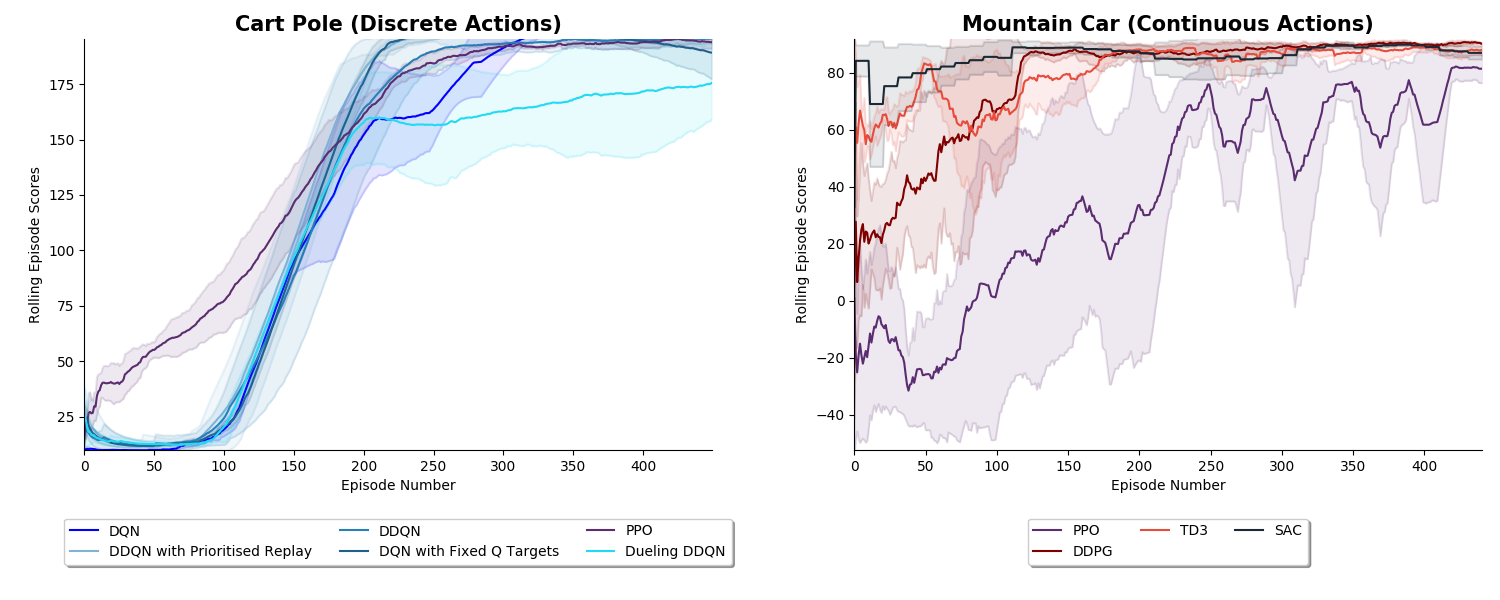
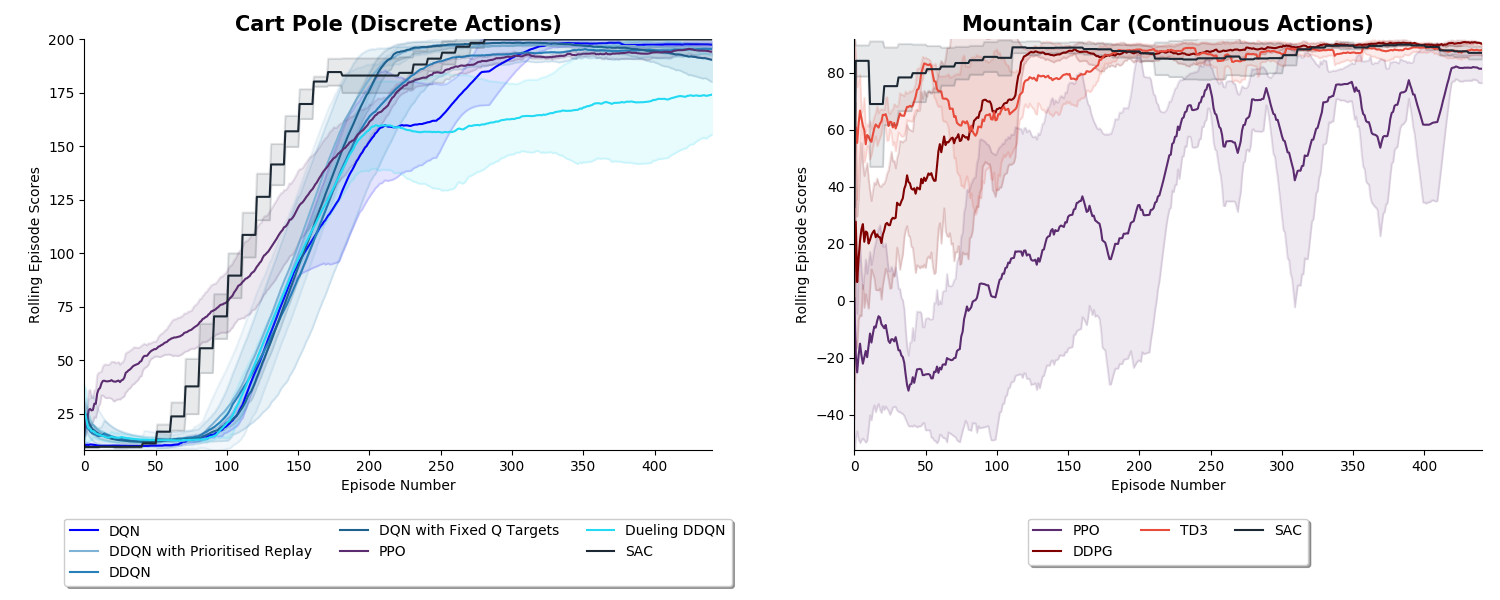
added SAC cart pole reuslts

diff --git a/agents/actor_critic_agents/SAC_Discrete.py b/agents/actor_critic_agents/SAC_Discrete.py
@@ -6,9 +6,9 @@ from Replay_Buffer import Replay_Buffer
 from SAC import SAC
 from Utility_Functions import create_actor_distribution
 
-
 class SAC_Discrete(SAC):
-    """The Soft Actor Critic for discrete actions"""
+    """The Soft Actor Critic for discrete actions. It inherits from SAC for continuous actions and only changes a few
+    methods."""
     agent_name = "SAC"
     def __init__(self, config):
         Base_Agent.__init__(self, config)
@@ -42,12 +42,7 @@ class SAC_Discrete(SAC):
             self.alpha_optim = Adam([self.log_alpha], lr=self.hyperparameters["Actor"]["learning_rate"])
         else:
             self.alpha = self.hyperparameters["entropy_term_weight"]
-
-        self.add_extra_noise = self.hyperparameters["add_extra_noise"]
-        # if self.add_extra_noise:
-        #     self.noise = OU_Noise(self.action_size, self.config.seed, self.hyperparameters["mu"],
-        #                           self.hyperparameters["theta"], self.hyperparameters["sigma"])
-
+        assert not self.hyperparameters["add_extra_noise"], "There is no add extra noise option for the discrete version of SAC at moment"
         self.do_evaluation_iterations = self.hyperparameters["do_evaluation_iterations"]
 
     def produce_action_and_action_info(self, state):

diff --git a/README.md b/README.md
@@ -19,7 +19,7 @@ This repository contains PyTorch implementations of deep reinforcement learning 
 1. *REINFORCE* <sub><sup> ([Williams et al. 1992](http://www-anw.cs.umass.edu/~barto/courses/cs687/williams92simple.pdf)) </sup></sub>
 1. *Deep Deterministic Policy Gradients (DDPG)* <sub><sup> ([Lillicrap et al. 2016](https://arxiv.org/pdf/1509.02971.pdf) ) </sup></sub>
 1. *Twin Delayed Deep Deterministic Policy Gradients (TD3)* <sub><sup> ([Fujimoto et al. 2018](https://arxiv.org/abs/1802.09477)) </sup></sub>
-1. *Soft Actor-Critic (SAC)* <sub><sup> ([Haarnoja et al. 2018](https://arxiv.org/pdf/1812.05905.pdf)) </sup></sub> 
+1. *Soft Actor-Critic (SAC & SAC-Discrete)* <sub><sup> ([Haarnoja et al. 2018](https://arxiv.org/pdf/1812.05905.pdf)) </sup></sub> 
 1. *Asynchronous Advantage Actor Critic (A3C)* <sub><sup> ([Mnih et al. 2016](https://arxiv.org/pdf/1602.01783.pdf)) </sup></sub>
 1. *Syncrhonous Advantage Actor Critic (A2C)*
 1. *Proximal Policy Optimisation (PPO)* <sub><sup> ([Schulman et al. 2017](https://openai-public.s3-us-west-2.amazonaws.com/blog/2017-07/ppo/ppo-arxiv.pdf)) </sup></sub>
